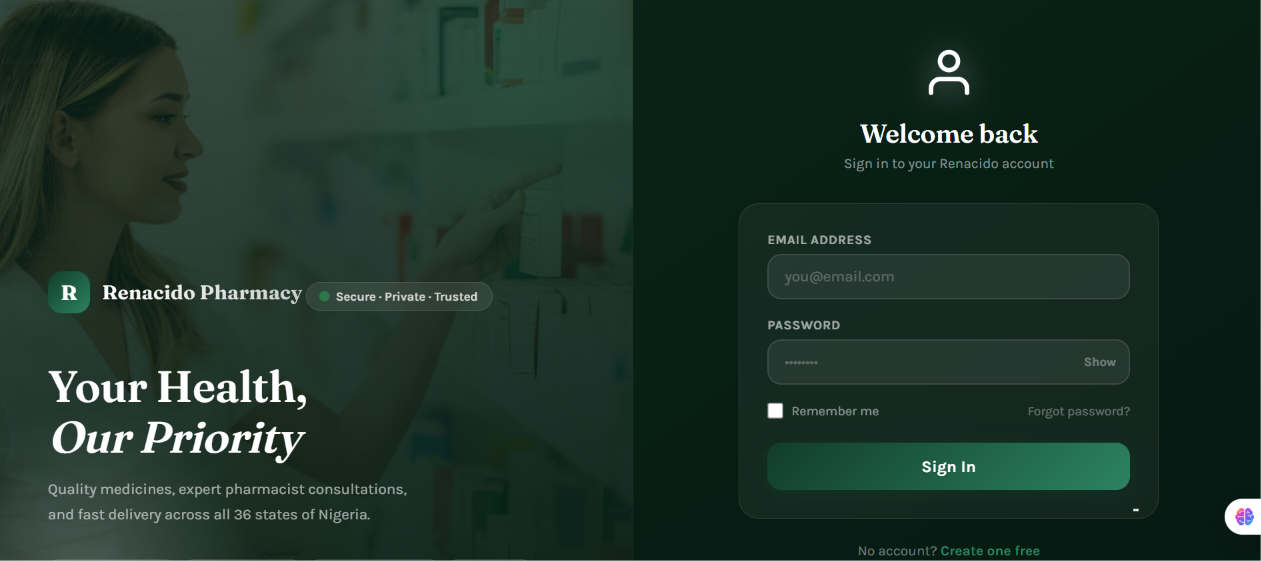
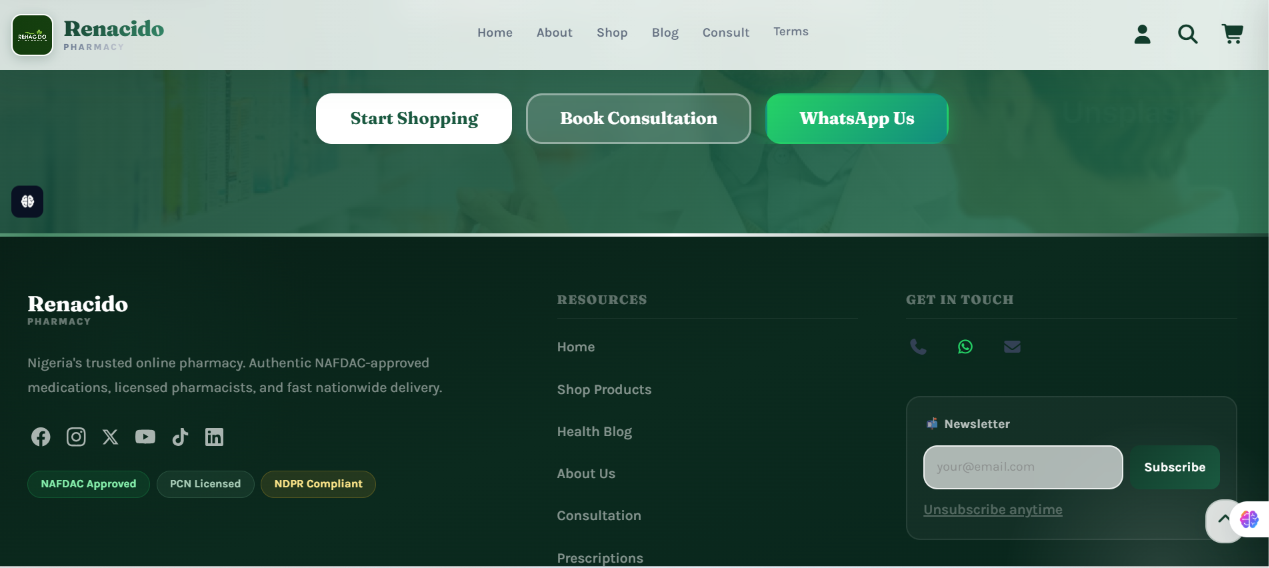
Add files via upload

diff --git a/assets/css/style.css b/assets/css/style.css
@@ -322,6 +322,8 @@ button { font: inherit; }
 .viewer-heading b { padding-inline: 3px; color: var(--accent); font-weight: 400; }
 .viewer-status { width: 6px; height: 6px; border-radius: 50%; background: #c4cce8; box-shadow: 0 0 10px rgba(180,194,255,.48); }
 .pdf-canvas-preview { width: 100%; min-height: 72px; padding: 12px; background: #1a1d26; }
+.cv-pdf-preview { height: min(72vh, 760px); min-height: 320px; overflow: auto; overscroll-behavior: contain; -webkit-overflow-scrolling: touch; scrollbar-gutter: stable; }
+.cv-pdf-preview:focus-visible { outline: 2px solid var(--accent); outline-offset: -2px; }
 .pdf-preview-status { margin: 0; color: var(--muted); font-size: .72rem; }
 .pdf-preview-pages { display: grid; gap: 12px; }
 .pdf-preview-page { min-width: 0; overflow: hidden; background: white; box-shadow: 0 4px 18px rgba(0,0,0,.2); }
@@ -484,6 +486,7 @@ button { font: inherit; }
   .project-gallery a > span { right: 6px; bottom: 6px; left: 6px; font-size: .57rem; }
   .analytics-project-footer { padding-inline: 17px; }
   .analytics-project-links { gap: 2px 16px; }
+  .cv-pdf-preview { height: min(68vh, 640px); min-height: 300px; }
   .project-file-list > li { gap: 9px; padding: 10px; }
   .project-file-link { font-size: .62rem; }
   .terms-item { padding: 16px; }

diff --git a/index.html b/index.html
@@ -46,9 +46,9 @@
     }
   </script>
   <link rel="icon" href="assets/favicon.svg" type="image/svg+xml">
-  <link rel="stylesheet" href="assets/css/style.css?v=9">
+  <link rel="stylesheet" href="assets/css/style.css?v=10">
   <script>document.documentElement.classList.add('js');</script>
-  <script src="assets/js/main.js?v=10" defer></script>
+  <script src="assets/js/main.js?v=11" defer></script>
 </head>
 <body>
   <a class="skip-link" href="#main">Skip to content</a>
@@ -342,11 +342,12 @@
                 <span>PDF <b>·</b> 3 pages</span>
               </div>
               <div
-                class="pdf-canvas-preview"
+                class="pdf-canvas-preview cv-pdf-preview"
                 data-pdf-preview
                 data-pdf-source="assets/documents/julius-odoeke-cv.pdf"
                 role="region"
                 aria-label="Curriculum vitae PDF preview"
+                tabindex="0"
                 aria-busy="true">
                 <p class="pdf-preview-status" role="status">Loading CV preview…</p>
               </div>

diff --git a/README.md b/README.md
@@ -38,7 +38,7 @@ The layout and appearance are in `assets/css/style.css`; navigation, animations,
 
 ## CV and public documents
 
-The CV and Google Data Analytics certificate PDFs and the Web Development and NYSC certificate scans are grouped under `assets/documents/`. The `#documents` section renders PDF pages in responsive canvases on desktop and mobile; original PDF links and native browser viewers remain available as fallbacks. The three certificates are grouped in a collapsible library that closes again after it scrolls out of view. Certificate images open at full size when tapped.
+The CV and Google Data Analytics certificate PDFs and the Web Development and NYSC certificate scans are grouped under `assets/documents/`. The `#documents` section renders PDF pages in responsive canvases on desktop and mobile; the CV preview has its own scroll area so visitors can read all pages without scrolling the whole site. Original PDF links and native browser viewers remain available as fallbacks. The three certificates are grouped in a collapsible library that closes again after it scrolls out of view. Certificate images open at full size when tapped.
 
 GitHub Pages serves files publicly. Hiding the PDF viewer toolbar does **not** prevent a visitor from opening, saving, or copying a public file. Review personal information before publishing documents. Private documents or guaranteed download protection require access-controlled server-side hosting; static GitHub Pages cannot provide that.
 
